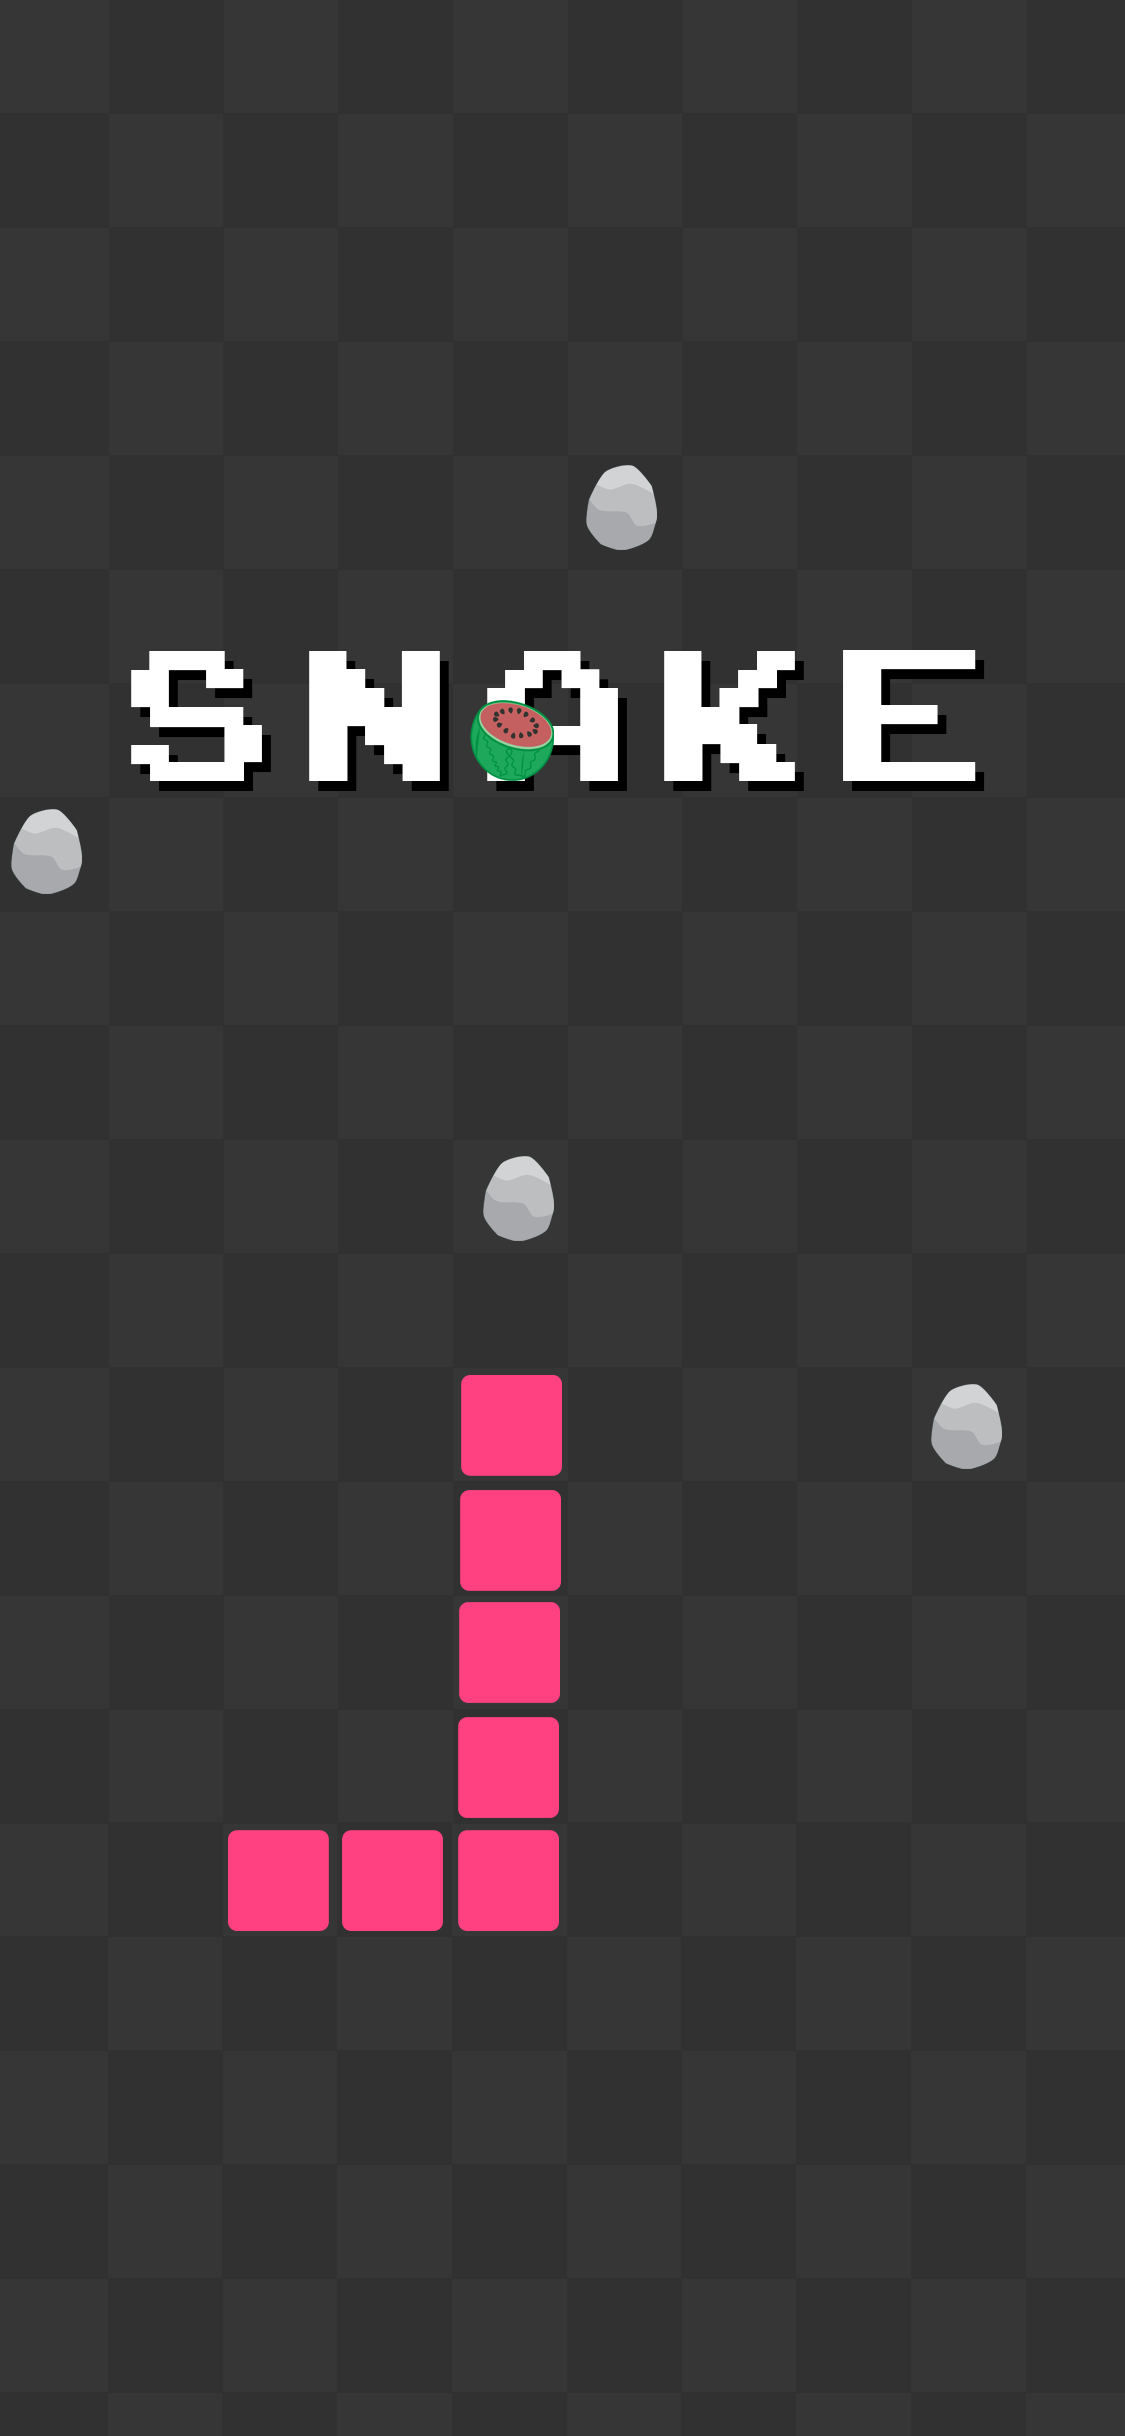
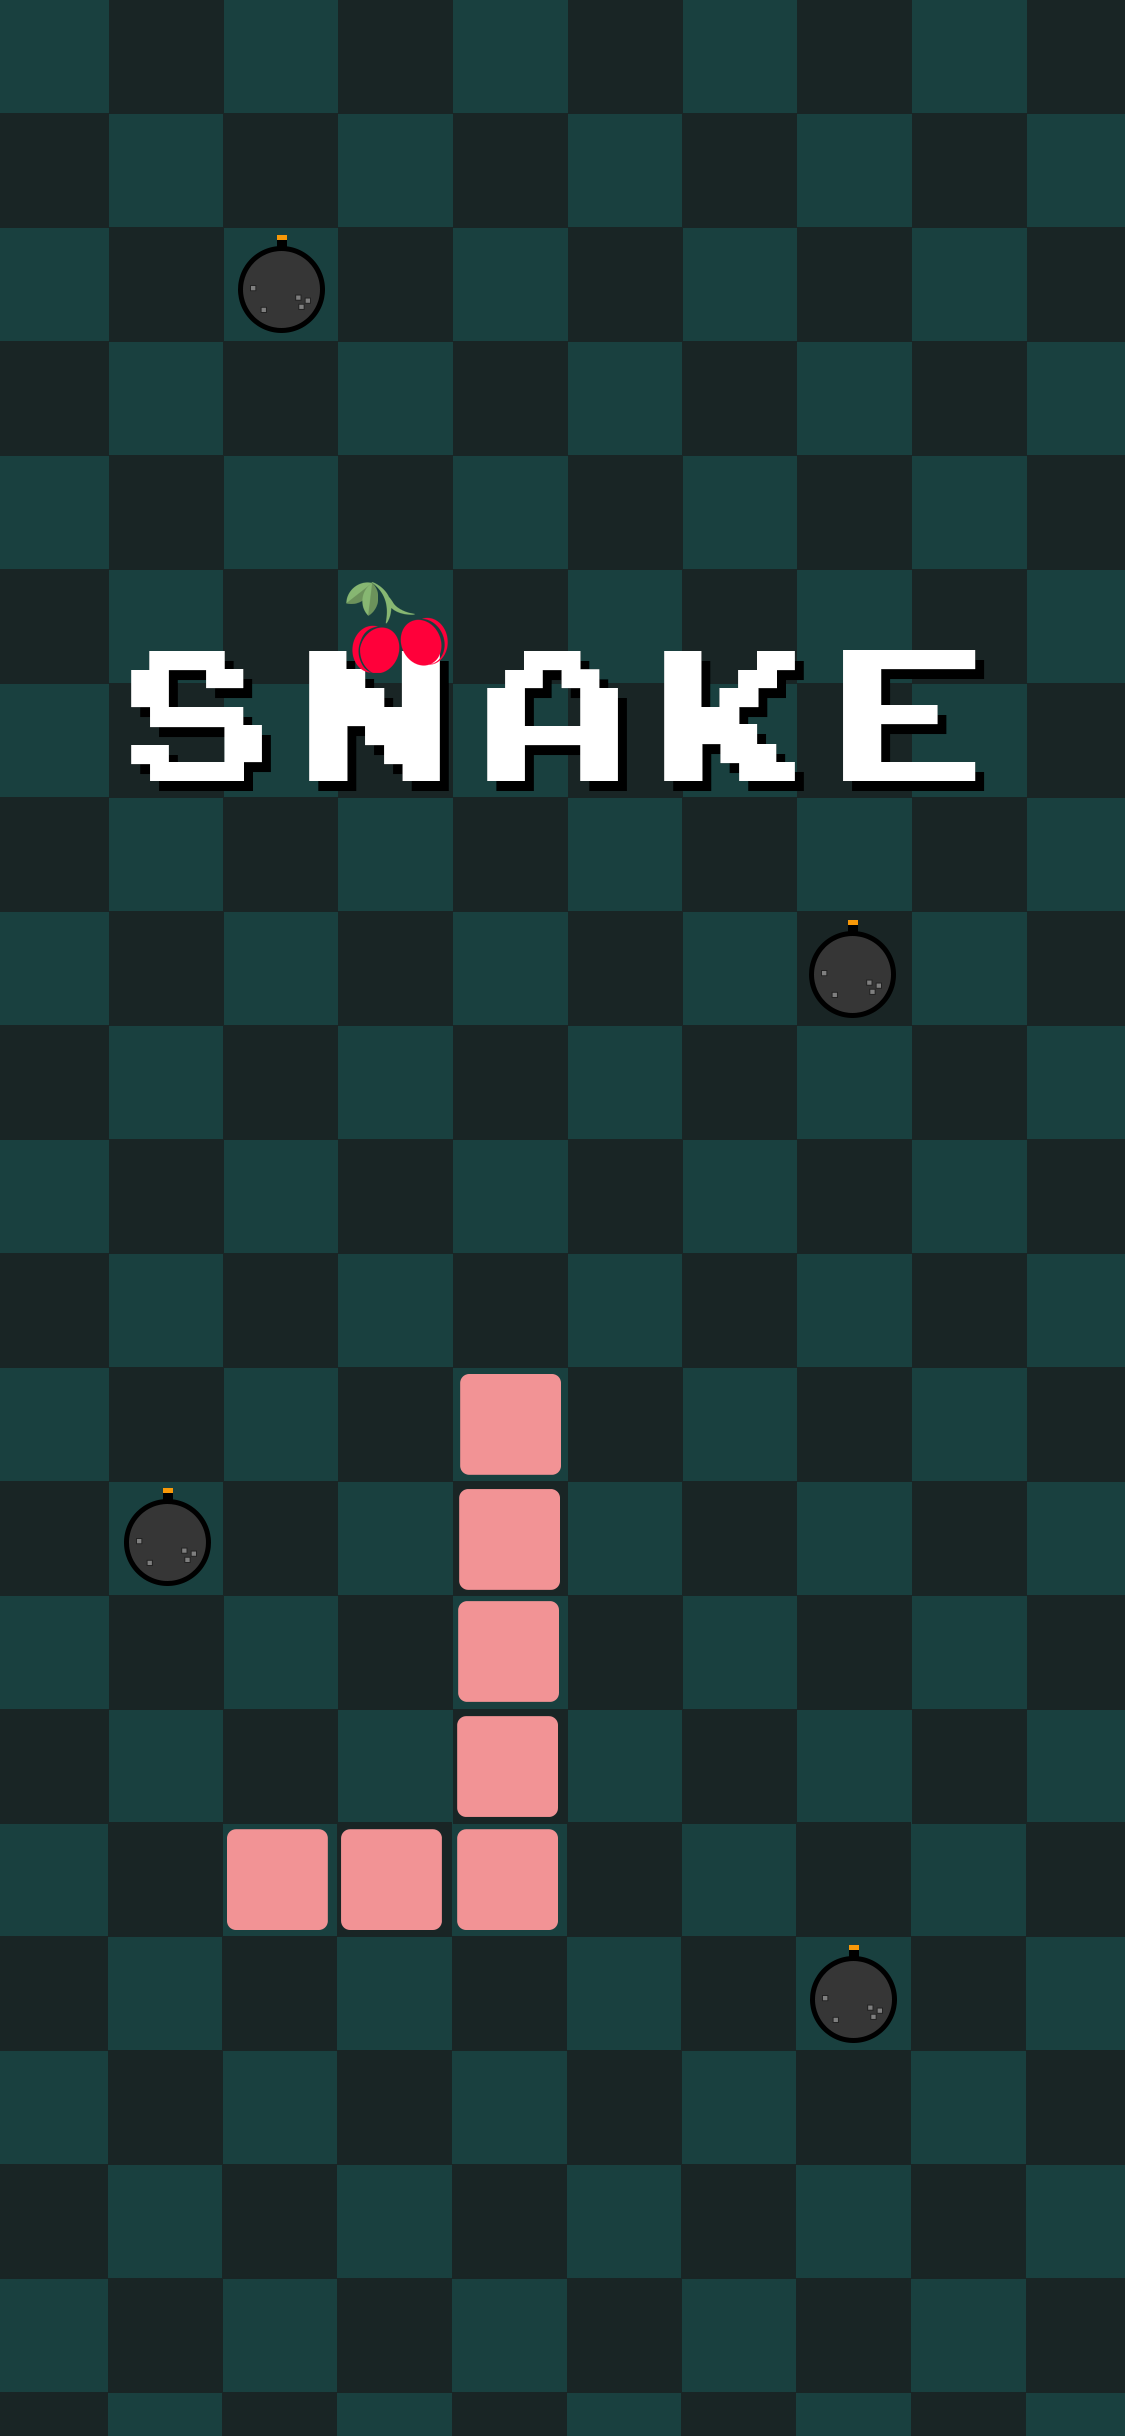
Vsersin 1.0

diff --git a/lib/snake.dart b/lib/snake.dart
@@ -60,14 +60,6 @@ class _SnakeState extends State<Snake> {
     }
   }
 
-  void checkBombs() {
-    for (int i = 0; i < bombs.length; i++) {
-      if (food == bombs[i]) {
-        bombs[i] = randomNum.nextInt(numOfSeqers);
-      }
-    }
-  }
-
   void generateBombs() {
     for (int i = 0; i < bombs.length; i++) {
       bombs[i] = randomNum.nextInt(numOfSeqers);
@@ -228,7 +220,6 @@ class _SnakeState extends State<Snake> {
 
   @override
   Widget build(BuildContext context) {
-    double _width = MediaQuery.of(context).size.width;
     double _height = MediaQuery.of(context).size.height;
 
     int size1 = (_height ~/ 2).toInt();
@@ -342,18 +333,9 @@ class _SnakeState extends State<Snake> {
                         ),
                       );
                     } else {
-//                      if (index % 10 == 0) {
-//                        colIndex += 1;
-//                      }
-//                      if (col > 17) col = 0;
                       return Container(
                         child: Container(
                           color:
-//                            (colIndex % 2 == 0)
-//                                ? (index % 2 == 0)
-//                                ? Color(0xff8ecc39)
-//                                : Color(0xffa8d04b)
-//                                : !
                               (index % 2 == 0)
                                   ? widget.snakeColor.seqColor1
                                   : widget.snakeColor.seqColor2

diff --git a/lib/main.dart b/lib/main.dart
@@ -82,6 +82,16 @@ class _HomePageState extends State<HomePage> {
       seqColor2: Color(0xff2F4858),
         backgroundImage: 'assets/img/backgroundImage5.png'
     ),
+    SnakeColors(
+        name: 'Pink 2',
+        food: 'assets/img/cherry.png',
+        bomb: 'assets/img/bomb.png',
+        color: Color(0xffd26481),
+        textColor: Colors.white,
+        seqColor1: Color(0xff8ecc39),
+        seqColor2: Color(0xffa8d04b),
+        backgroundImage: 'assets/img/backgroundImage6.png'
+    ),
   ];
 
   SnakeColors selectedColor;
